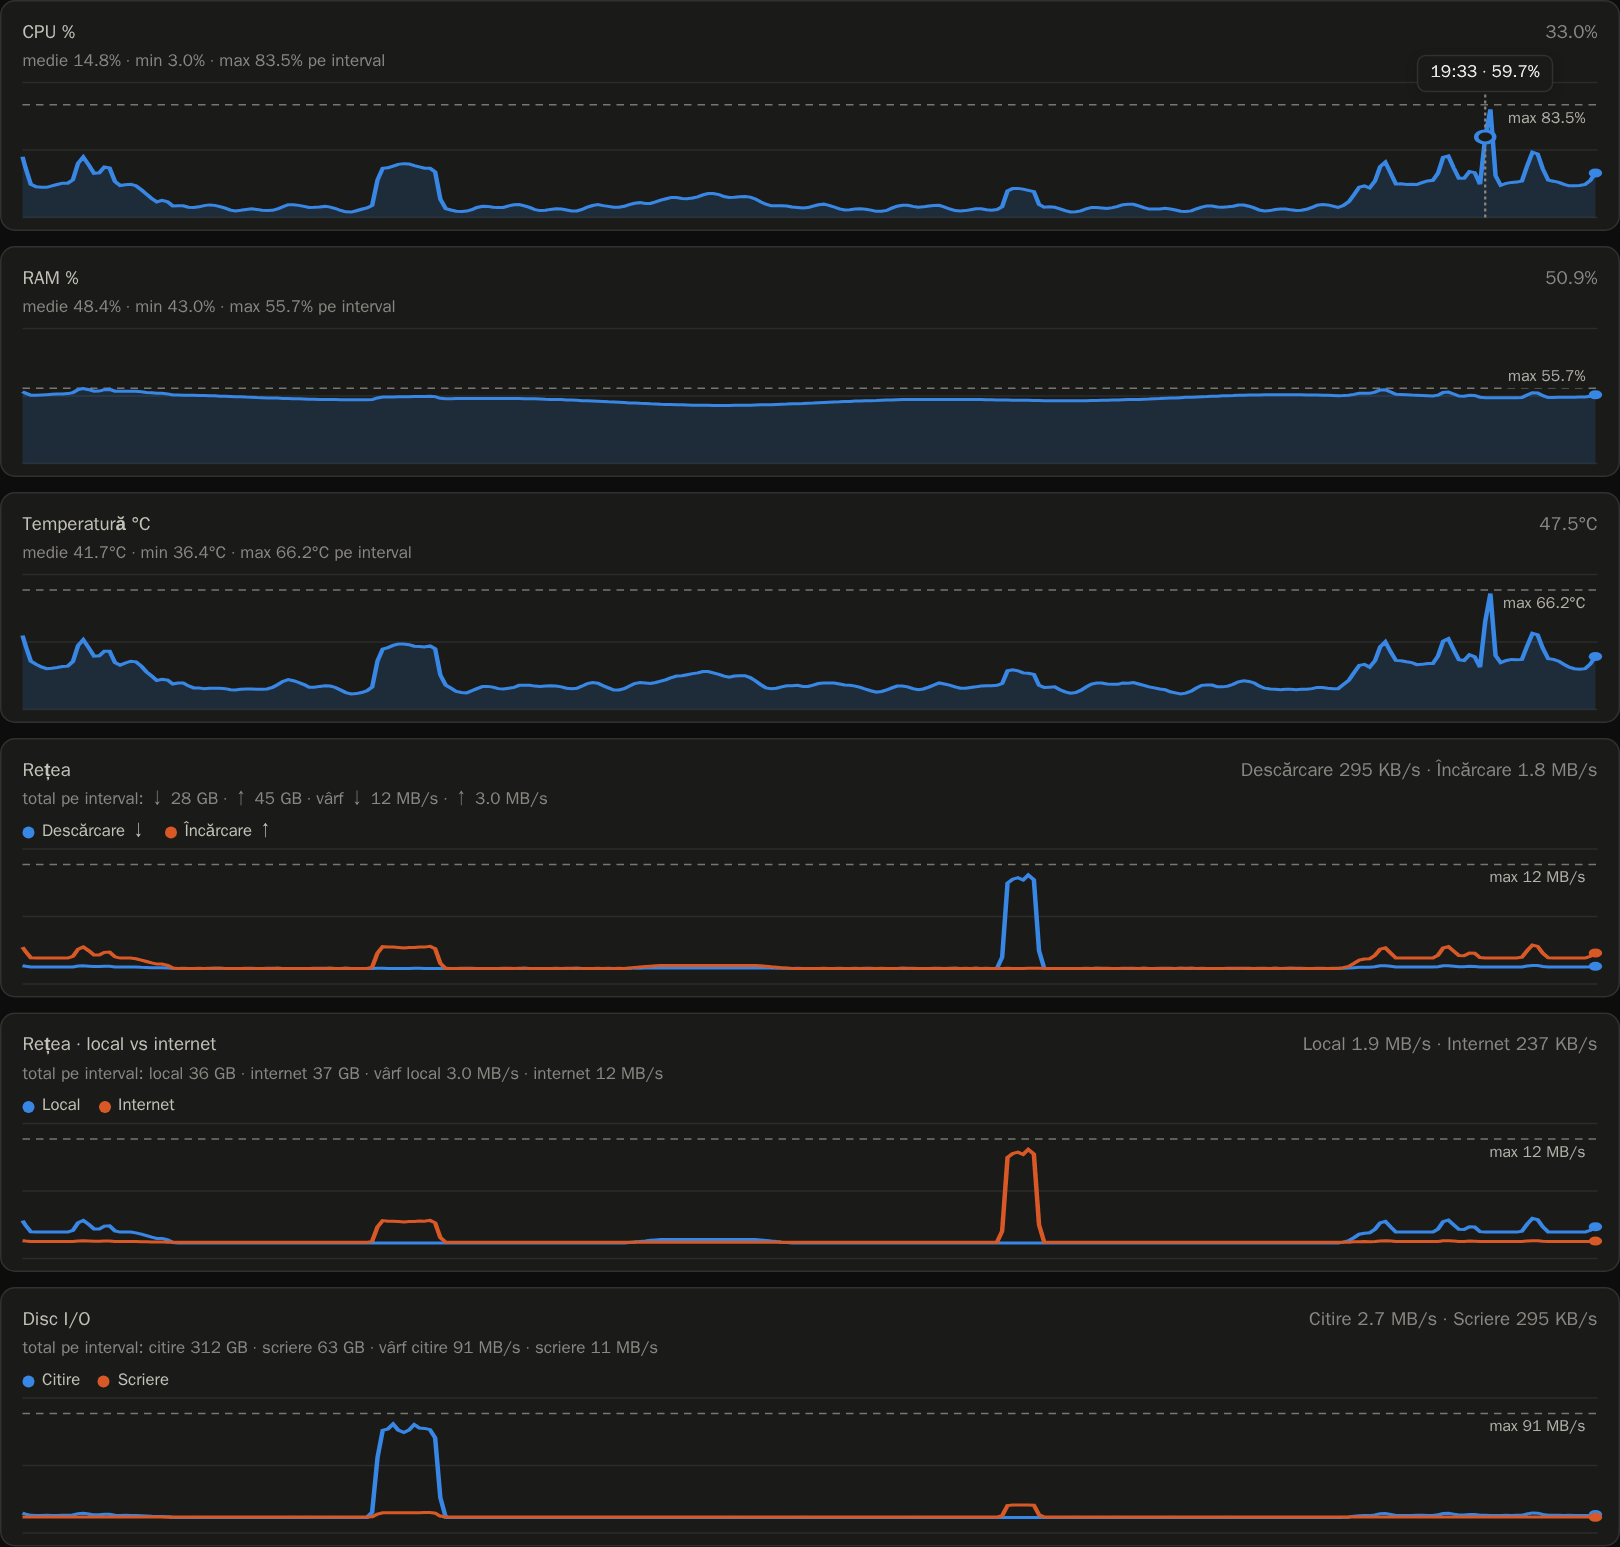
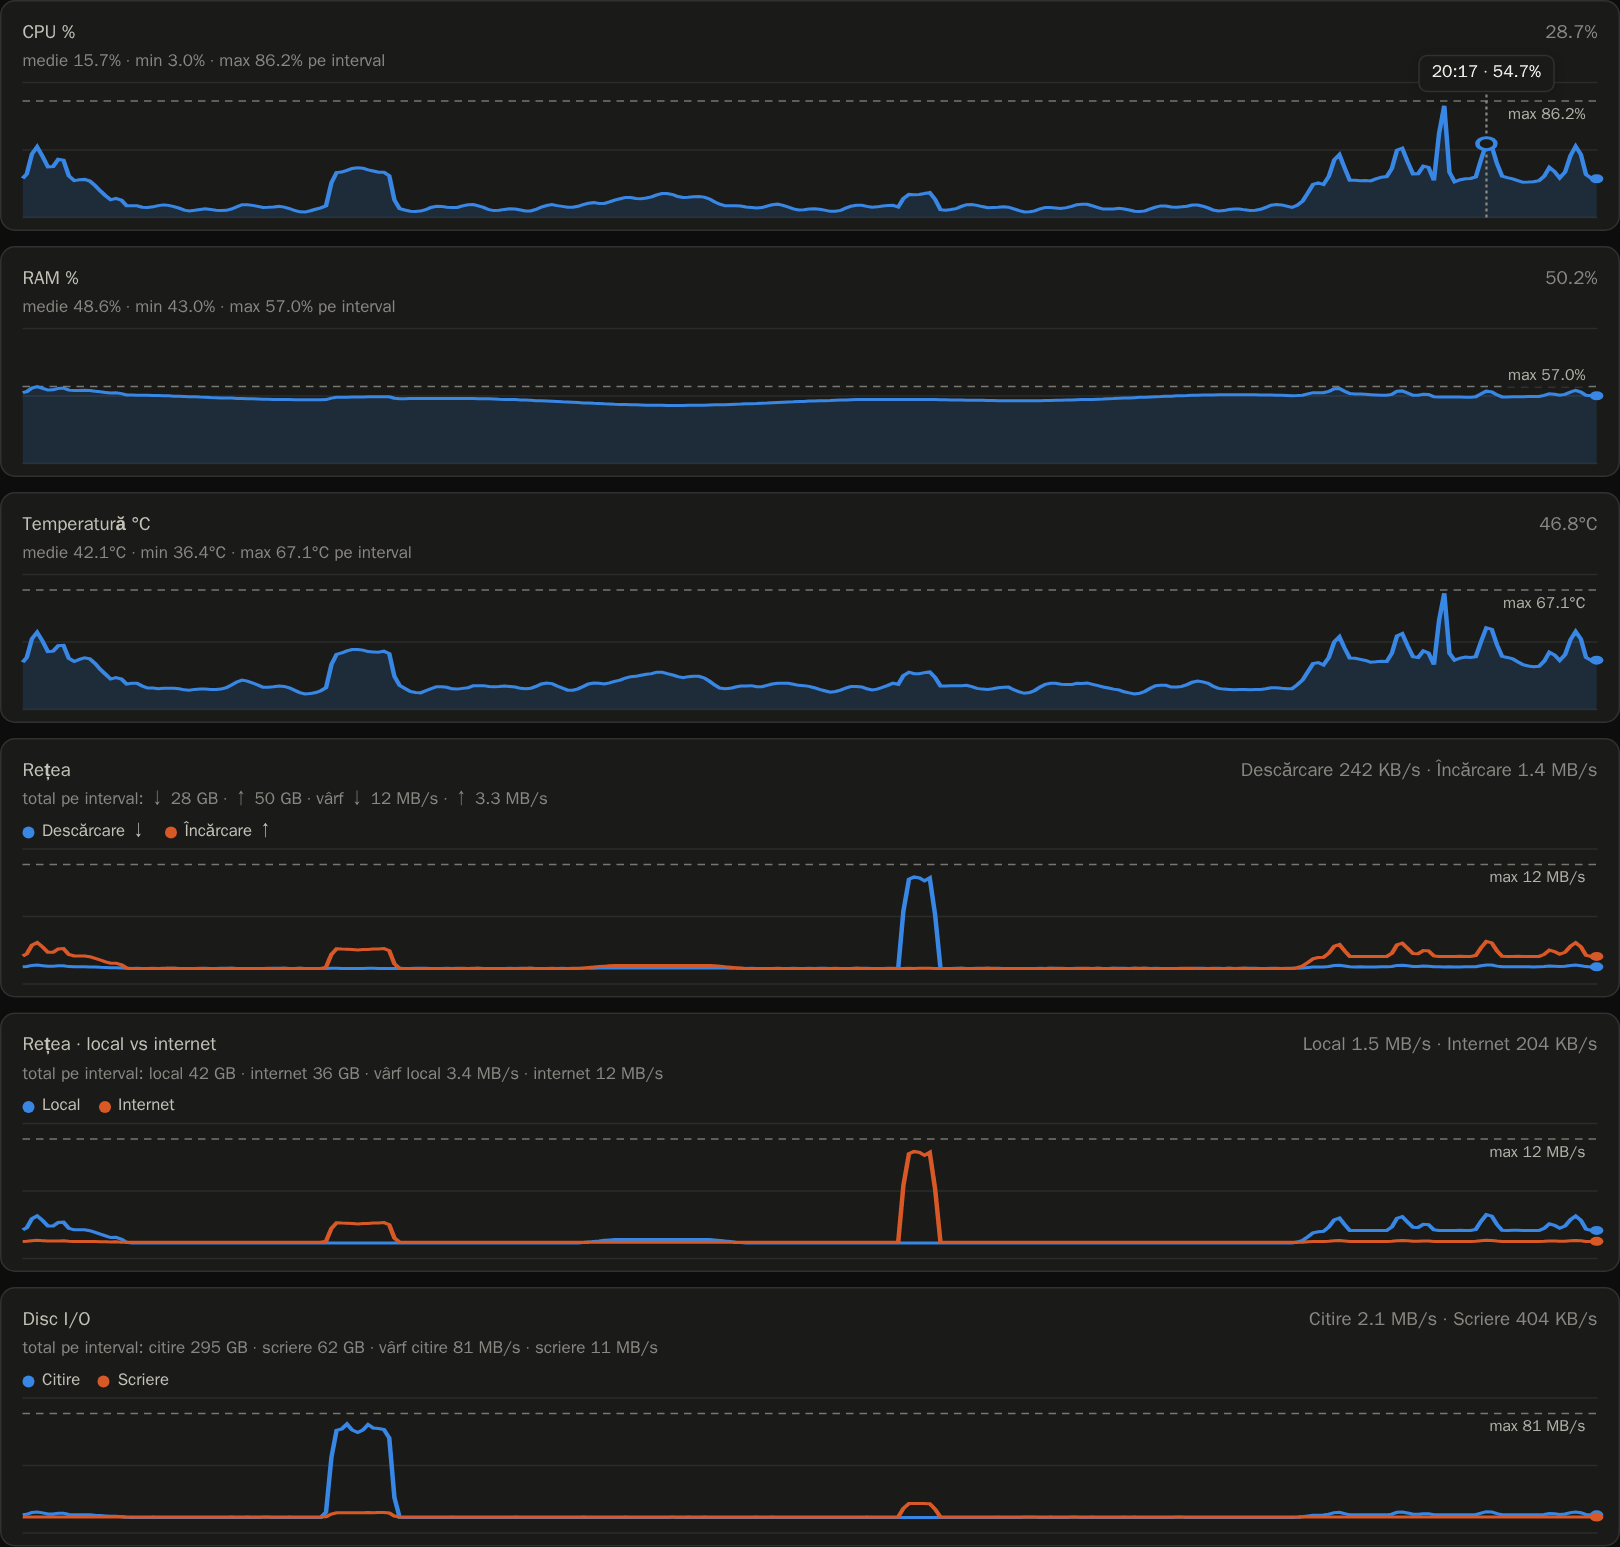
Add an animated demo GIF to the README
The GIF tours the history ranges, chart tooltips and container cards, and
is generated by scripts/screenshots.py from the same demo data as the
screenshots. Demo data now varies per day so the 7 and 30 day views look
natural; the static images were regenerated to match, and the README
shows the dark, light and mobile themes side by side.

diff --git a/scripts/screenshots.py b/scripts/screenshots.py
@@ -7,6 +7,7 @@ Every /api/* response is replaced inside the browser with generated data, so not
 from the real host (containers, domains, addresses, metrics) ends up in the images.
 """
 import glob
+import io
 import json
 import math
 import os
@@ -25,6 +26,7 @@ OUT = sys.argv[2] if len(sys.argv) > 2 else "docs/screenshots"
 SAMPLE = 15
 UTC_OFFSET = 3 * 3600
 START = time.time()
+TODAY = int((START + UTC_OFFSET) // 86400)
 MEM_TOTAL_MIB = 16384
 DISK_TOTAL = 1000204886016
 COLS = ["ts", "cpu", "mem", "disk", "temp", "load1", "load5", "load15",
@@ -56,14 +58,20 @@ def bump(h, a, b, ramp=0.3):
 
 
 def sample(t):
-    """One fake host sample: quiet nights, a 03:00 backup, a midday download,
-    evening media streaming and one short CPU spike at ~19:40."""
-    h = ((t + UTC_OFFSET) % 86400) / 3600
-    stream = bump(h, 18.0, 23.0, 0.6) * (0.6 + 0.8 * max(0.0, wave(t, 3, 700)))
+    """One fake host sample: quiet nights, a 03:00 backup, a daily download,
+    evening media streaming (longer on weekends) and occasional CPU spikes.
+    Per-day variation keeps the 7 and 30 day views from looking stamped."""
+    local = t + UTC_OFFSET
+    day, h = int(local // 86400), (local % 86400) / 3600
+    dv, dv2 = frac(math.sin(day * 12.9898) * 43758.5453), frac(math.sin(day * 78.233 + 1) * 43758.5453)
+    weekend = 1.0 if (day + 3) % 7 >= 5 else 0.0
+    stream = bump(h, 18.0 - weekend, 23.0 + weekend, 0.6) * (0.7 + 0.6 * dv + 0.35 * weekend) \
+        * (0.6 + 0.8 * max(0.0, wave(t, 3, 700)))
     morning = bump(h, 7.0, 8.5, 0.5)
-    backup = bump(h, 2.75, 3.6, 0.1)
-    burst = bump(h, 12.3, 12.75, 0.05)
-    spike = bump(h, 19.6, 19.72, 0.02)
+    backup = bump(h, 2.75, 3.6, 0.1) * (0.8 + 0.4 * dv2)
+    b0 = 9 + dv2 * 10
+    burst = bump(h, b0, b0 + 0.45, 0.05)
+    spike = bump(h, 19.6, 19.72, 0.02) if (dv > 0.7 or day >= TODAY - 1) else 0.0
 
     cpu = 6 + 3 * wave(t, 1, 900) + 2 * jitter(t, 1) + 30 * stream + 30 * backup + 12 * burst \
         + 8 * morning + 62 * spike * (0.9 + 0.1 * jitter(t, 4))
@@ -87,8 +95,9 @@ def sample(t):
 
 
 def history(start, end):
-    first = start - start % SAMPLE + SAMPLE
-    raw = [sample(t) for t in range(first, end + 1, SAMPLE)]
+    step = SAMPLE if end - start <= 1.5 * 86400 else (end - start) // 2880 // SAMPLE * SAMPLE
+    first = start - start % step + step
+    raw = [sample(t) for t in range(first, end + 1, step)]
     bucket = max(SAMPLE, (end - start) // 300)
     groups = {}
     for s in raw:
@@ -194,7 +203,7 @@ def handle(route):
 
 # ---------------------------------------------------------------- capturing --
 
-def open_page(browser, scheme, width, height, scale, mobile=False):
+def open_page(browser, scheme, width, height, scale, mobile=False, range_min=1440):
     ctx = browser.new_context(
         viewport={"width": width, "height": height}, device_scale_factor=scale, color_scheme=scheme,
         locale="ro-RO", timezone_id="Europe/Chisinau", is_mobile=mobile, has_touch=mobile,
@@ -202,9 +211,67 @@ def open_page(browser, scheme, width, height, scale, mobile=False):
     page = ctx.new_page()
     page.route(re.compile(r".*/api/.*"), handle)
     page.goto(BASE, wait_until="load")
-    page.click('#range-toggle button[data-min="1440"]')
+    if range_min:
+        page.click(f'#range-toggle button[data-min="{range_min}"]')
     page.wait_for_timeout(6000)
     return ctx, page
+
+
+def make_gif(browser, path, width=900, height=600):
+    """Tour: top of page, every history range, tooltips following the cursor on two
+    charts, then the container cards. Frames are screenshots joined with Pillow."""
+    ctx, page = open_page(browser, "dark", width, height, 1, range_min=None)
+    frames, durations = [], []
+
+    def shot(ms):
+        frames.append(Image.open(io.BytesIO(page.screenshot())).convert("RGB"))
+        durations.append(ms)
+
+    def top_of(selector, offset):
+        return page.evaluate(f"document.querySelector('{selector}').getBoundingClientRect().top + scrollY - {offset}")
+
+    def scroll_to(y, steps):
+        y0 = page.evaluate("scrollY")
+        for i in range(1, steps + 1):
+            k = i / steps
+            page.evaluate(f"scrollTo(0, {y0 + (y - y0) * k * k * (3 - 2 * k)})")
+            page.wait_for_timeout(30)
+            shot(45)
+
+    def sweep(selector, x0, x1, steps):
+        box = page.locator(selector).bounding_box()
+        for i in range(steps + 1):
+            x = box["x"] + box["width"] * (x0 + (x1 - x0) * i / steps)
+            page.mouse.move(x, box["y"] + box["height"] / 2)
+            page.wait_for_timeout(40)
+            shot(70)
+        page.mouse.move(2, 2)
+
+    shot(1800)
+    scroll_to(top_of("#range-toggle", 70), 8)
+    shot(600)
+    for minutes in (60, 360, 1440, 10080, 43200, 1440):
+        page.click(f'#range-toggle button[data-min="{minutes}"]')
+        page.mouse.move(2, 2)
+        page.wait_for_timeout(900)
+        shot(1300)
+    sweep("#chart-cpu", 0.04, 0.95, 18)
+    shot(700)
+    scroll_to(page.evaluate("document.querySelector('#chart-net').closest('.card').getBoundingClientRect().top + scrollY - 20"), 8)
+    sweep("#chart-scope", 0.04, 0.83, 18)
+    shot(700)
+    scroll_to(top_of("#containers", 50), 8)
+    shot(2200)
+    ctx.close()
+
+    step = max(1, len(frames) // 8)
+    sheet = Image.new("RGB", (width, height * len(frames[::step])))
+    for i, f in enumerate(frames[::step]):
+        sheet.paste(f, (0, i * height))
+    palette = sheet.quantize(colors=255, method=Image.Quantize.MEDIANCUT, dither=Image.Dither.NONE)
+    paletted = [f.quantize(palette=palette, dither=Image.Dither.NONE) for f in frames]
+    paletted[0].save(path, save_all=True, append_images=paletted[1:], duration=durations, loop=0, optimize=True)
+    print(f"{os.path.basename(path)}: {len(frames)} frames, {os.path.getsize(path) // 1024} KB")
 
 
 def shrink(path):
@@ -238,6 +305,8 @@ def main():
         ctx, page = open_page(browser, "dark", 390, 844, 2, mobile=True)
         page.screenshot(path=f"{OUT}/mobile-dark.png")
         ctx.close()
+
+        make_gif(browser, f"{OUT}/demo.gif")
         browser.close()
 
     for f in sorted(glob.glob(f"{OUT}/*.png")):

diff --git a/README.md b/README.md
@@ -4,7 +4,7 @@ A single-file Flask dashboard for a homelab Docker host: live CPU / RAM / disk /
 history charts with peaks, network split into LAN vs internet traffic, per-container stats and
 auto-discovered links to your other containers.
 
-![Dashboard overview (dark)](docs/screenshots/hero-dark.png)
+![Dashboard tour: history ranges, chart tooltips and container cards](docs/screenshots/demo.gif)
 
 > The UI text is in Romanian. All screenshots use generated demo data, not a real host - see
 > [Regenerating the screenshots](#regenerating-the-screenshots).
@@ -48,9 +48,9 @@ your LAN, **red** goes through a public domain.
 The layout follows the system colour scheme and is usable on a phone; a web manifest lets you
 install it as an app.
 
-| Light | Mobile (dark) |
-| --- | --- |
-| ![Light theme](docs/screenshots/hero-light.png) | ![Mobile view](docs/screenshots/mobile-dark.png) |
+| Dark | Light | Mobile |
+| --- | --- | --- |
+| ![Dark theme](docs/screenshots/hero-dark.png) | ![Light theme](docs/screenshots/hero-light.png) | ![Mobile view](docs/screenshots/mobile-dark.png) |
 
 ## Requirements
 
@@ -116,9 +116,10 @@ instantaneous spikes.
 
 ## Regenerating the screenshots
 
-The images in `docs/screenshots/` come from [scripts/screenshots.py](scripts/screenshots.py), which
-replaces every `/api/*` response in the browser with generated demo data, so nothing from a real
-host ends up in them. With the dashboard running:
+The images and the demo GIF in `docs/screenshots/` come from
+[scripts/screenshots.py](scripts/screenshots.py), which replaces every `/api/*` response in the
+browser with generated demo data, so nothing from a real host ends up in them. With the dashboard
+running:
 
 ```
 pip install playwright pillow && playwright install chromium
